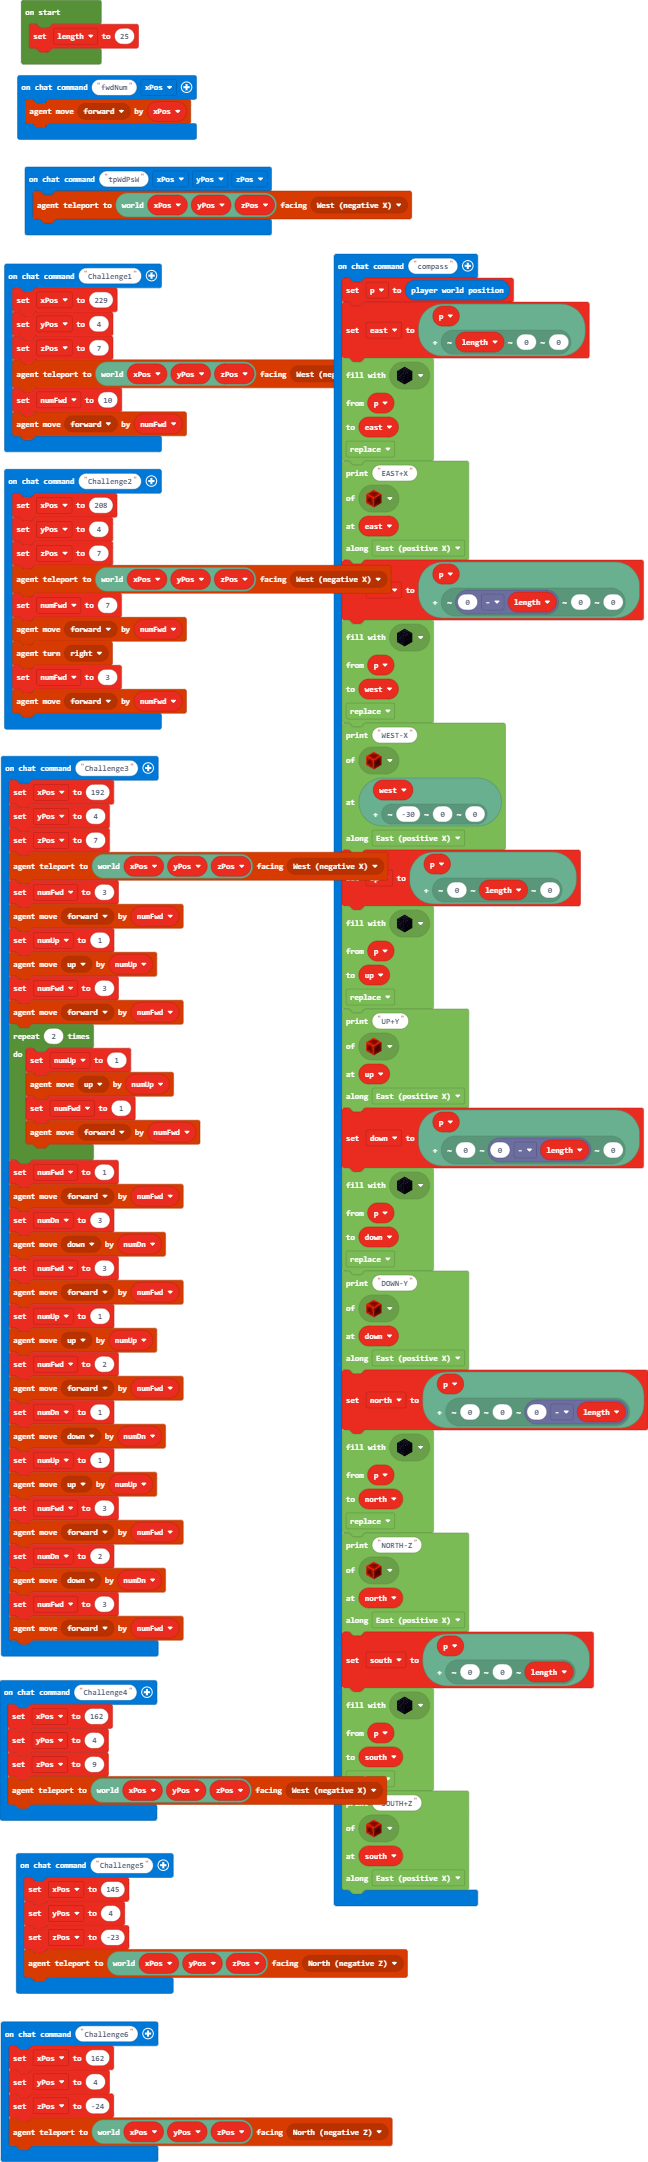
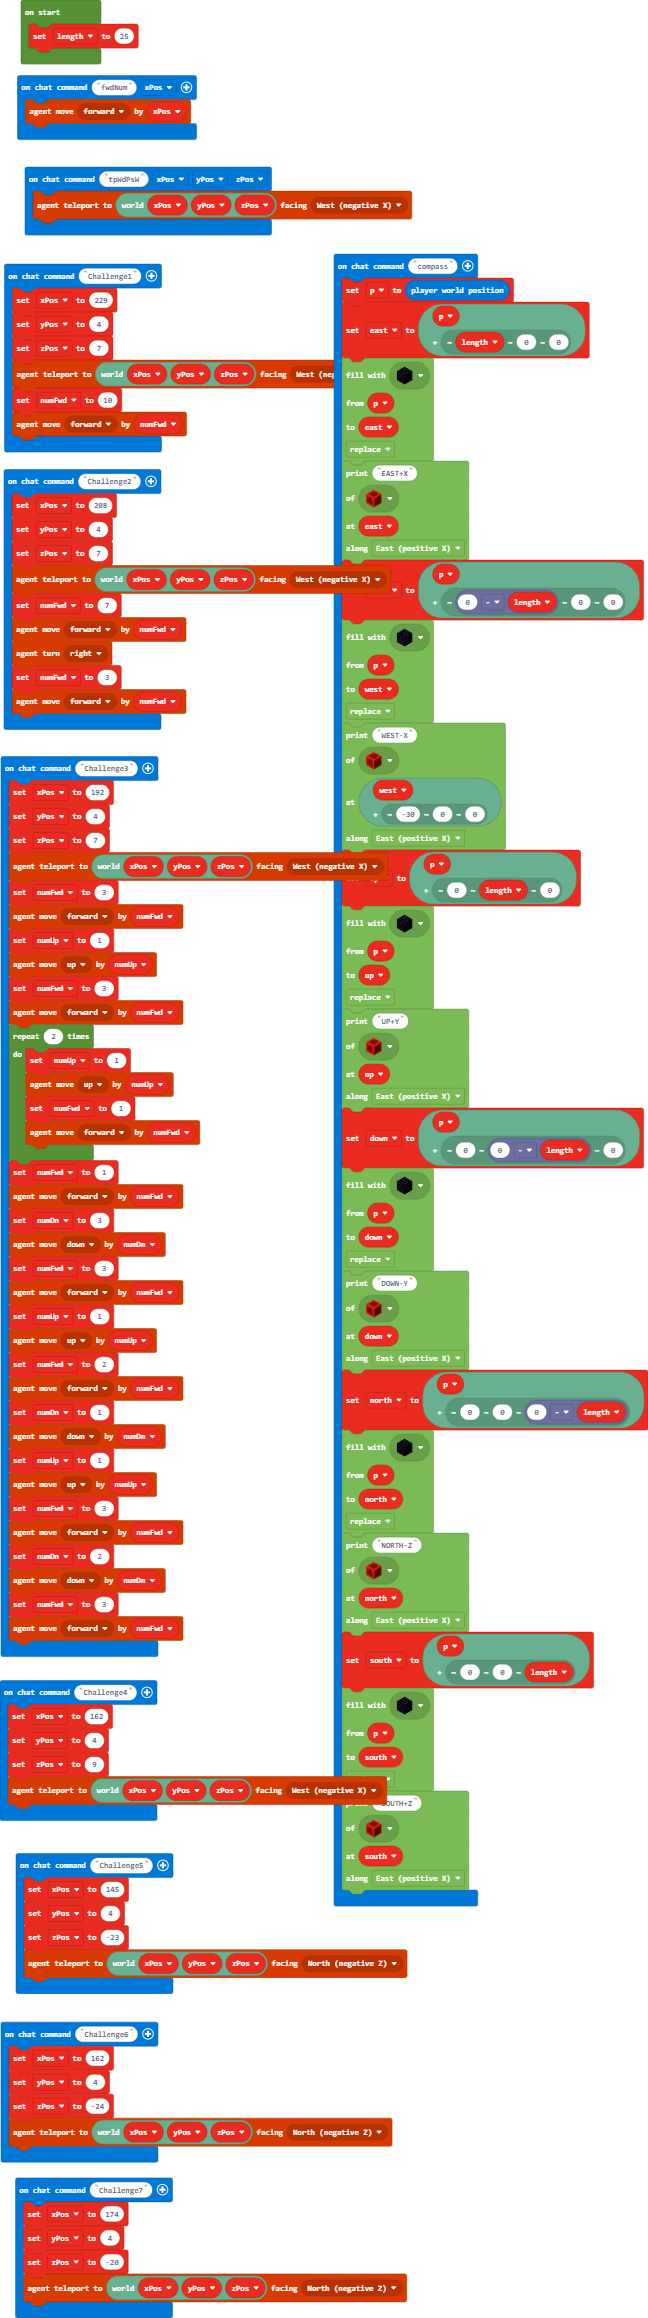
added challenge7 stub

diff --git a/main.ts b/main.ts
@@ -181,6 +181,12 @@ player.onChat("Challenge6", function () {
     zPos = -24
     agent.teleport(world(xPos, yPos, zPos), NORTH)
 })
+player.onChat("Challenge7", function () {
+    xPos = 174
+    yPos = 4
+    zPos = -20
+    agent.teleport(world(xPos, yPos, zPos), NORTH)
+})
 let south: Position = null
 let north: Position = null
 let down: Position = null
